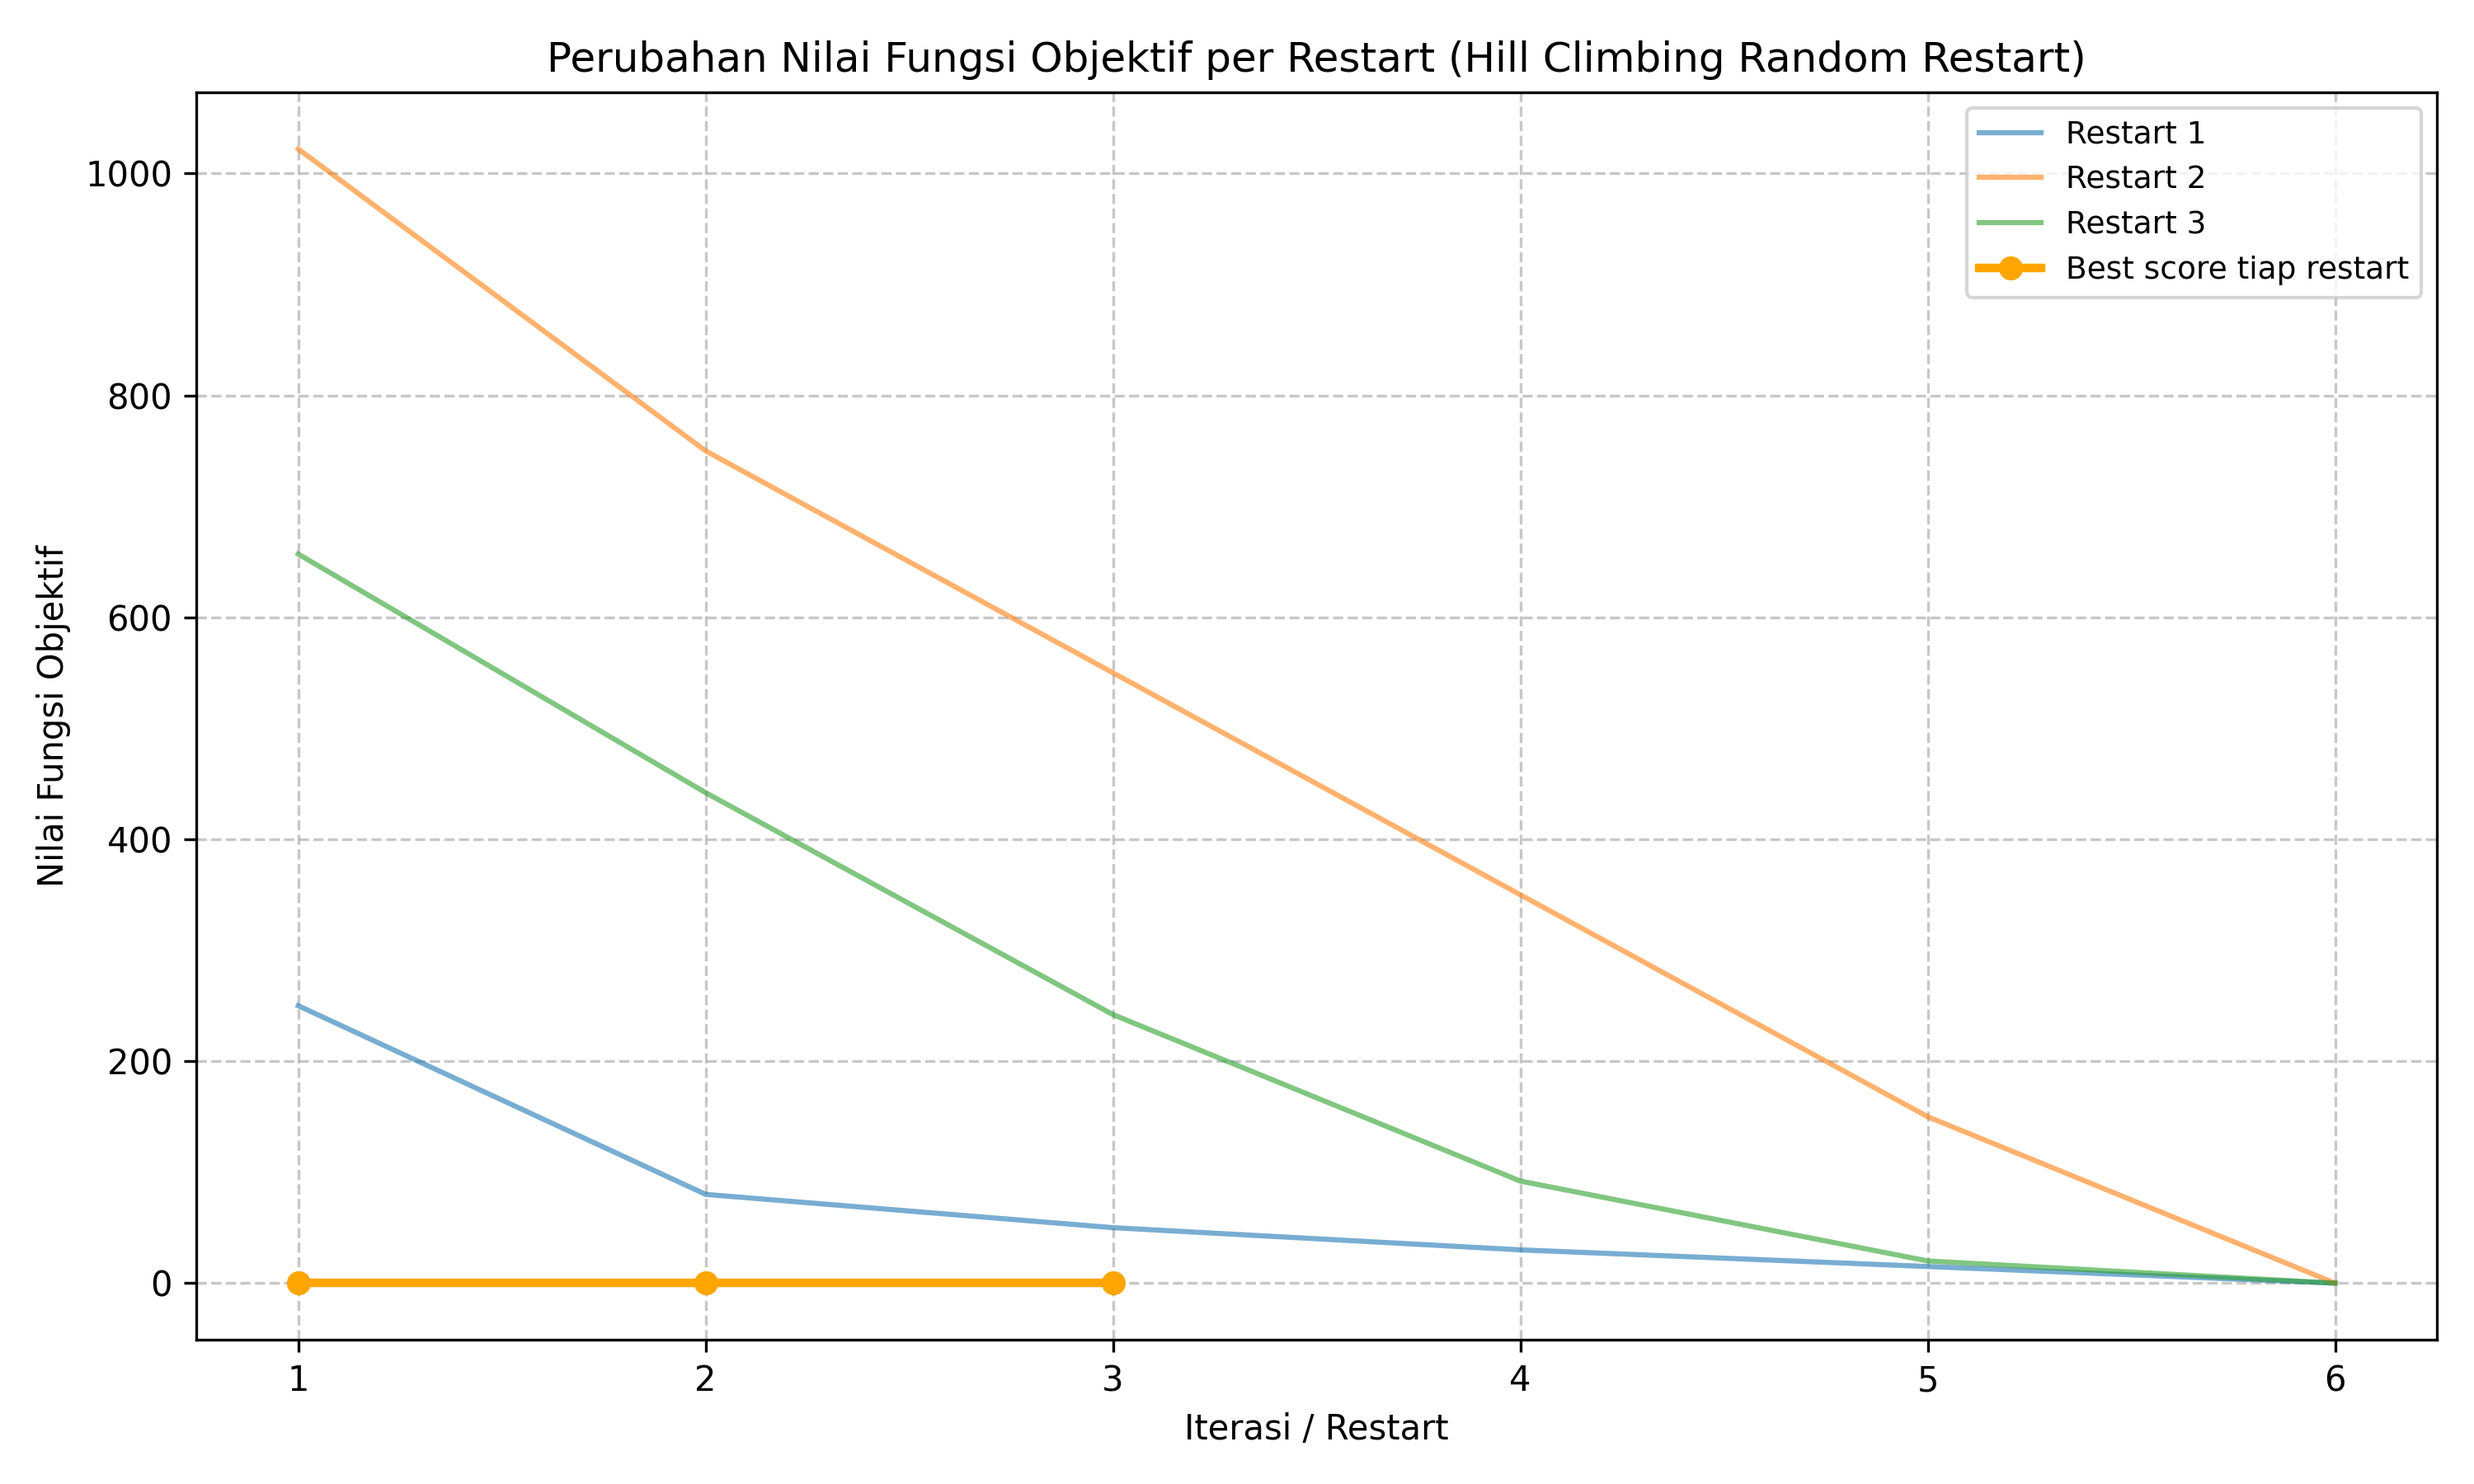
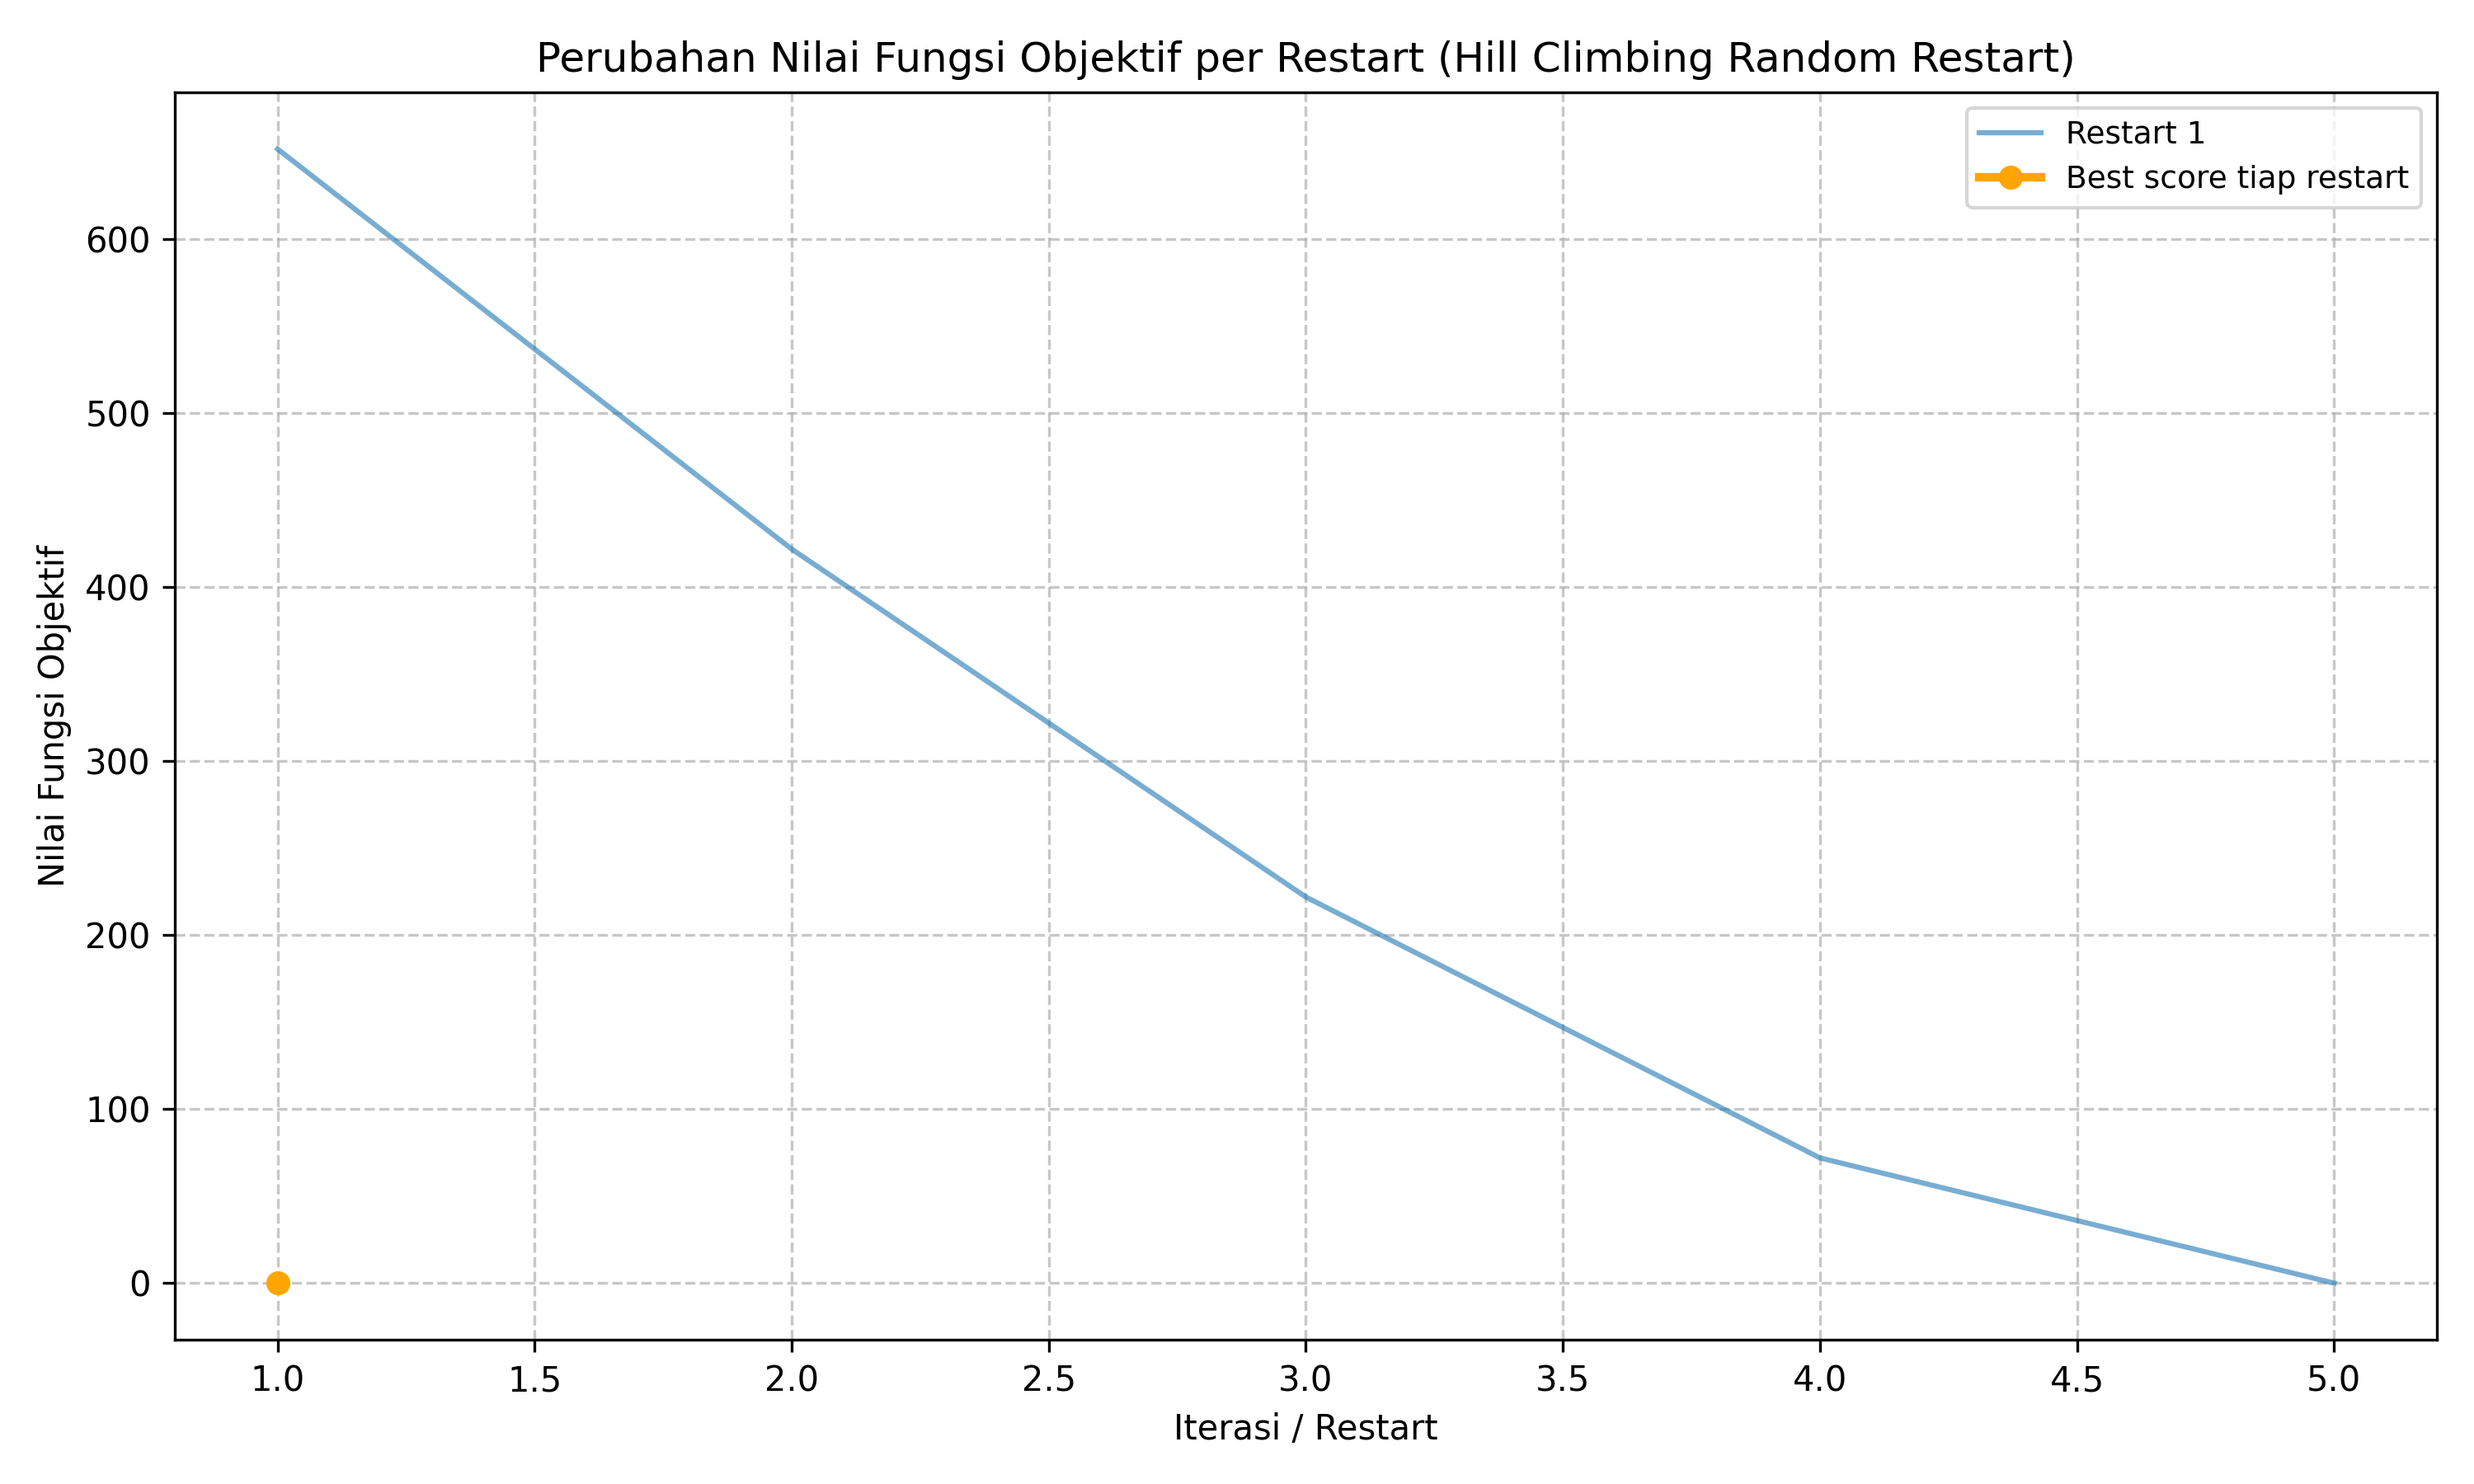
fix: stochastic hill climbing

diff --git a/src/algorithm/hill_climbing.py b/src/algorithm/hill_climbing.py
@@ -175,27 +175,20 @@ def hill_climbing_stochastic(state, data, slots, max_iter=1000):
     print(f"[INIT] Score awal = {current_score}")
 
     for step in range(max_iter):
-        successor = getSuccessors(current, slots, data["kelas_mata_kuliah"])
-        if not successor:
+        successors = getSuccessors(current, slots, data["kelas_mata_kuliah"])
+        if not successors:
             print("[STOP] Tidak ada tetangga ditemukan.")
             break
 
-        # ambil tetangga yang lebih baik dari current
-        better_successor = [n for n in successor if evaluate(n, data) < current_score]
-
-        if not better_successor:
-            print("[STOP] Tidak ada neighbor yang lebih baik, berhenti.")
-            break
-
-        # pilih 1 random dari yang lebih baik
-        next_state = random.choice(better_successor)
+        # pilih 1 random
+        next_state = random.choice(successors)
         next_score = evaluate(next_state, data)
         print(f"[STEP {step+1}] {current_score} -> {next_score}")
+        scores.append(next_score)
 
 
         if next_score < current_score:
             current, current_score = next_state, next_score
-            scores.append(current_score)
             print(f"[UPDATE] Score diperbarui menjadi {current_score}")
         else:
             print("[NO UPDATE] Score tidak berubah.")

diff --git a/src/main.py b/src/main.py
@@ -204,12 +204,14 @@ if __name__ == "__main__":
     for kode, entries in jadwal_per_matkul.items():
         print(f"\n{kode} - {next((k['nama'] for k in data['kelas_mata_kuliah'] if k['kode'] == kode), 'Tidak diketahui')}")
         by_hari = {}
+        all_slots = []
         for hari, jam, ruang in entries:
             if hari not in by_hari:
                 by_hari[hari] = {}
             if ruang not in by_hari[hari]:
                 by_hari[hari][ruang] = []
             by_hari[hari][ruang].append(jam)
+            all_slots.append((hari, jam))
 
         for hari in urutan_hari:
             if hari not in by_hari:
@@ -217,3 +219,9 @@ if __name__ == "__main__":
             for ruang, jam_list in by_hari[hari].items():
                 for (mulai, selesai) in gabung_jam(jam_list):
                     print(f"  {hari}: {mulai:02d}.00 - {selesai:02d}.00 ({ruang})")
+        if all_slots:
+            all_slots.sort(key = lambda x: (urutan_hari.index(x[0]), x[1]))
+            paling_awal = all_slots[0]
+            paling_akhir = all_slots[-1]
+            print(f"Paling awal: {paling_awal[0]} jam {paling_awal[1]:02d}.00")
+            print(f"Paling akhir: {paling_akhir[0]} jam {paling_akhir[1]:02d}.00")
